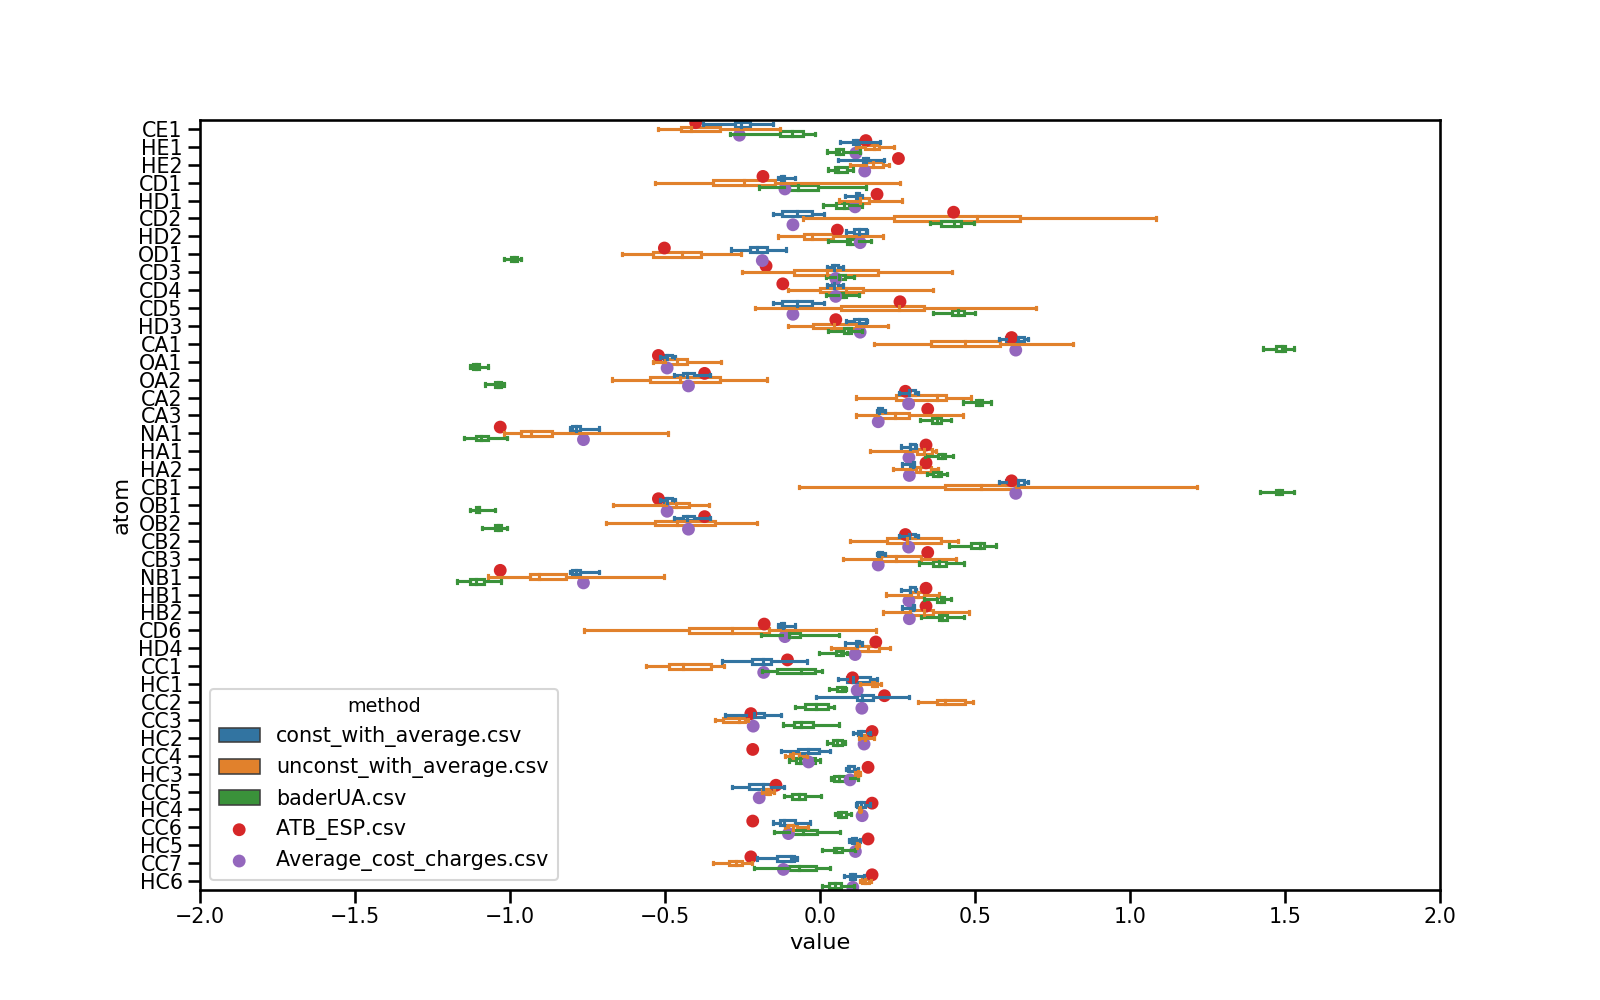
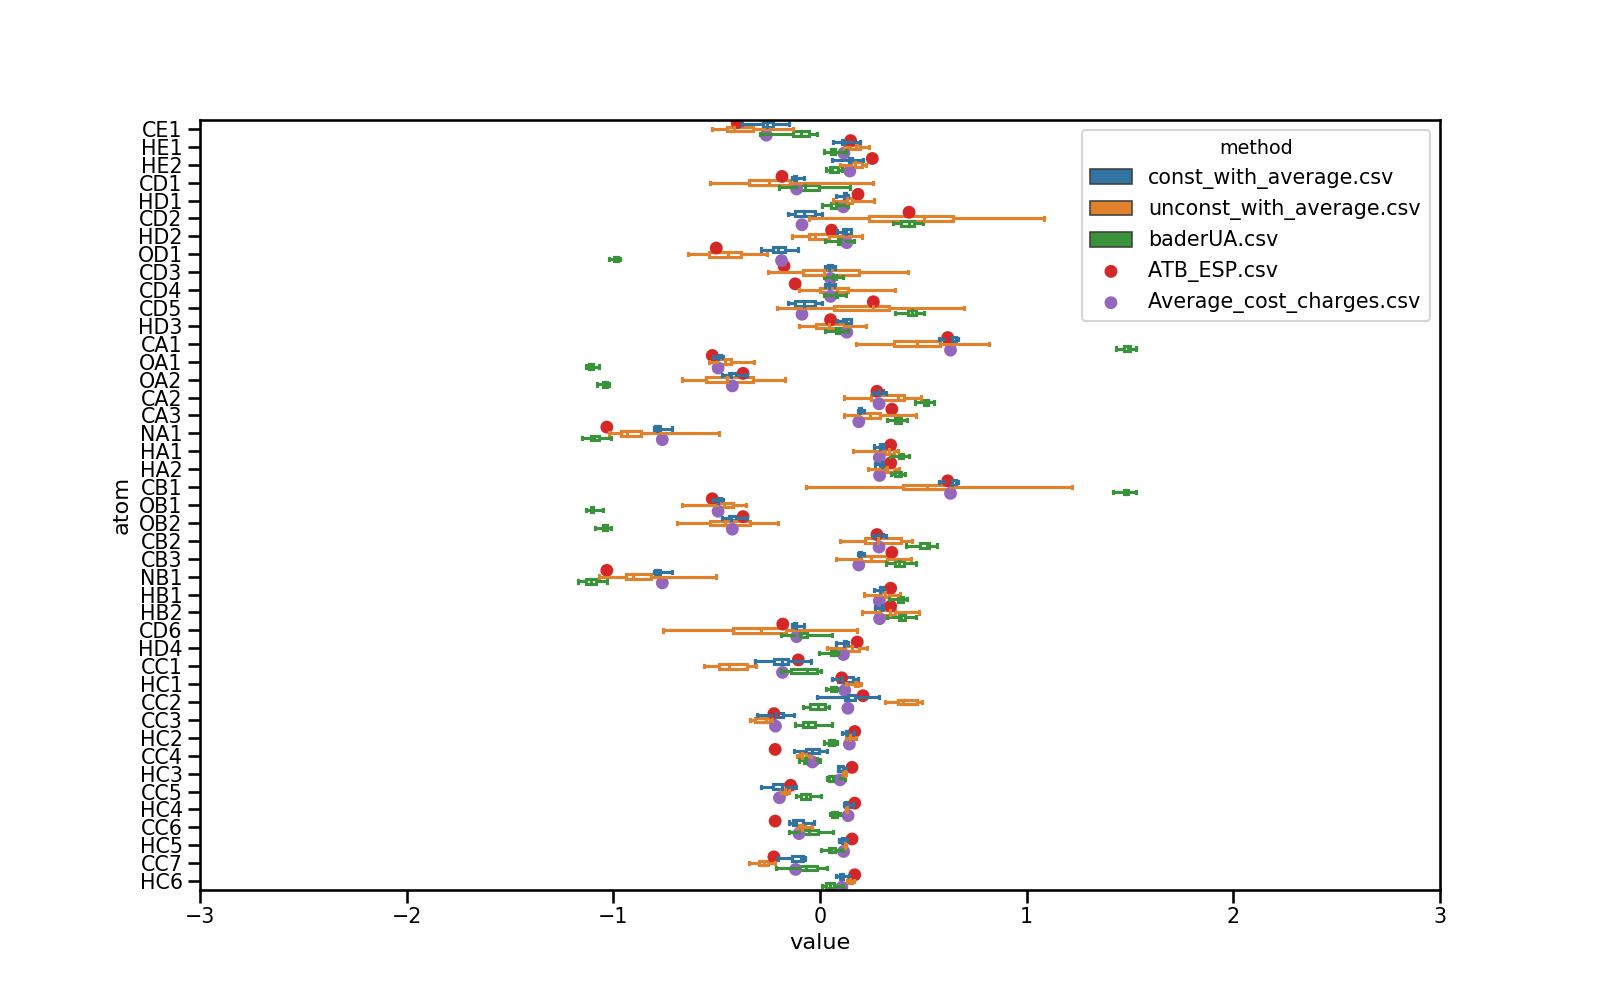
change x to -3, 3

diff --git a/plot_comparison.py b/plot_comparison.py
@@ -14,7 +14,7 @@ def default_style(func):
    def wrapper(*args, **kwargs):
       fig = plt.figure(figsize=(16,10))
       sns.set_context("talk", font_scale=0.9)
-      plt.xlim(-2, 2)
+      plt.xlim(-3, 3)
       plt.tick_params(grid_alpha=0.2)
       func(*args, **kwargs)
       plt.clf()
